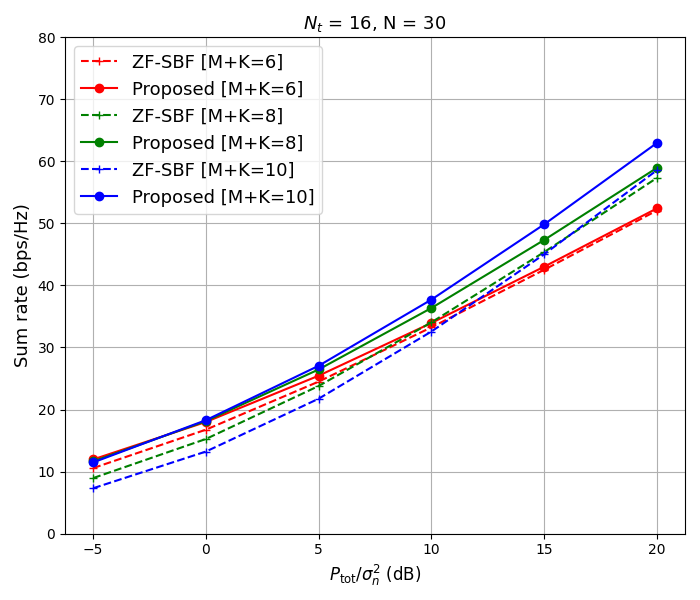
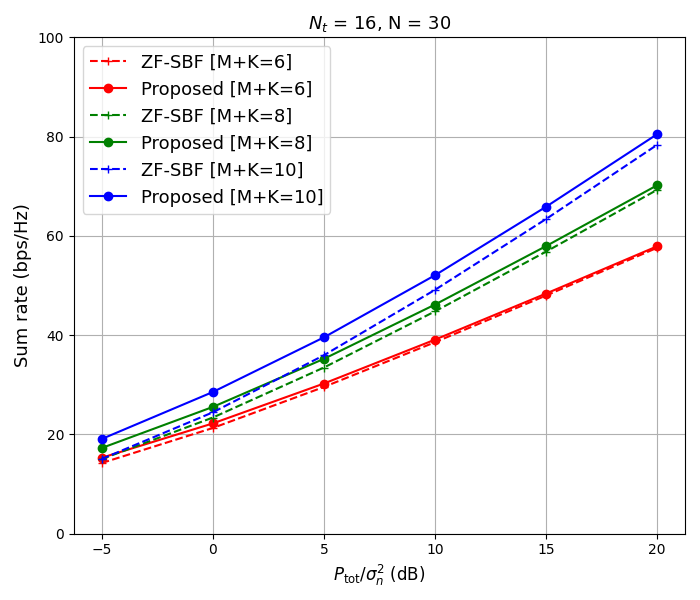
Modified

diff --git a/plot3.py b/plot3.py
@@ -1,0 +1,73 @@
+"""
+Compare the sum rate between the neural network and the Zero-forcing
+Author    : Khin Thandar Kyaw
+Date : 21 OCT 2023
+Last Modified  : 15 Nov 2023
+"""
+
+import numpy as np
+import tensorflow as tf
+import matplotlib.pyplot as plt
+from NNUtils import *
+
+
+# tf_version: 2.15.0
+print(tf.__version__)
+print("Loading...")
+
+# --------------------------- Start --------------------------------
+snrFixed = fiexdSNR()
+Nt, N, _, _, _, _, _ = parameters(6) # 6 is just a placeholder
+
+global_ymin = 0
+global_ymax = 100
+
+
+rateNNSuper30 = np.load(f'Plotting/10users/sumRateSuperNt16N30T10.npy')
+rateZF30 = np.load(f'Plotting/10users/sumRateZFNt16N30T10.npy')
+
+rateNNSuper60 = np.load(f'Plotting/10users/sumRateSuperNt16N60T10.npy')
+rateZF60 = np.load(f'Plotting/10users/sumRateZFNt16N60T10.npy')
+
+rateNNSuper120 = np.load(f'Plotting/10users/sumRateSuperNt16N120T10.npy')
+rateZF120 = np.load(f'Plotting/10users/sumRateZFNt16N120T10.npy')
+
+
+print('Loading...')
+linePrint()
+
+plt.figure(figsize=(7, 6))  
+
+
+# Plot lines
+plottingLine(rateZF30, 'ZF-SBF [N = 30]', 'dashed', 'red', '+')
+plottingLine(rateNNSuper30, 'Proposed [N = 30]', 'solid', 'red', 'o')
+
+plottingLine(rateZF60, 'ZF-SBF [N = 60]', 'dashed', 'green', '+')
+plottingLine(rateNNSuper60, 'Proposed [N = 60]', 'solid', 'green', 'o')
+
+plottingLine(rateZF120, 'ZF-SBF [N = 120]', 'dashed', 'blue', '+')
+plottingLine(rateNNSuper120, 'Proposed [N = 120]', 'solid', 'blue', 'o')
+
+# Legend
+plt.legend(loc='upper left', ncol=1, fontsize=13)
+plt.ylim([global_ymin, global_ymax])
+
+# Axes labels
+plt.rc('text', usetex=True)
+plt.xlabel(r'$P_{\mathrm{tot}}/\sigma_n^2$ (dB)', fontsize=12)
+plt.ylabel('Sum rate (bps/Hz)', fontsize=13)
+
+# Title
+totalUser = 10
+plt.title(r'$N_t$ = {}, $M + K$ = {}'.format(Nt, totalUser), fontsize=13)
+
+plt.grid(True) 
+plt.tight_layout()  # Adjust layout to prevent clipping of legend
+plt.savefig(f'Plotting/sumRateComparison.png')  
+plt.close()
+
+print("Done!")
+
+
+  

diff --git a/plot2.py b/plot2.py
@@ -1,0 +1,72 @@
+"""
+Compare the sum rate between the neural network and the Zero-forcing
+Author    : Khin Thandar Kyaw
+Date : 21 OCT 2023
+Last Modified  : 15 Nov 2023
+"""
+
+import numpy as np
+import tensorflow as tf
+import matplotlib.pyplot as plt
+from NNUtils import *
+
+
+# tf_version: 2.15.0
+print(tf.__version__)
+print("Loading...")
+
+# --------------------------- Start --------------------------------
+snrFixed = fiexdSNR()
+Nt, N, _, _, _, _, _ = parameters(6) # 6 is just a placeholder
+
+global_ymin = 0
+global_ymax = 100
+
+
+# load the data
+rateNNSuper6 = np.load(f'Plotting/6users/sumRateSuper.npy')
+rateZF6 = np.load(f'Plotting/6users/sumRateZF.npy')
+
+rateNNSuper8 = np.load(f'Plotting/8users/sumRateSuper.npy')
+rateZF8 = np.load(f'Plotting/8users/sumRateZF.npy')
+
+rateNNSuper10 = np.load(f'Plotting/10users/sumRateSuper.npy')
+rateZF10 = np.load(f'Plotting/10users/sumRateZF.npy')
+
+print('Loading...')
+linePrint()
+
+plt.figure(figsize=(7, 6))  
+
+
+# Plot lines
+plottingLine(rateZF6, 'ZF-SBF [M+K=6]', 'dashed', 'red', '+')
+plottingLine(rateNNSuper6, 'Proposed [M+K=6]', 'solid', 'red', 'o')
+
+plottingLine(rateZF8, 'ZF-SBF [M+K=8]', 'dashed', 'green', '+')
+plottingLine(rateNNSuper8, 'Proposed [M+K=8]', 'solid', 'green', 'o')
+
+plottingLine(rateZF10, 'ZF-SBF [M+K=10]', 'dashed', 'blue', '+')
+plottingLine(rateNNSuper10, 'Proposed [M+K=10]', 'solid', 'blue', 'o')
+
+# Legend
+plt.legend(loc='upper left', ncol=1, fontsize=13)
+plt.ylim([global_ymin, global_ymax])
+
+# Axes labels
+plt.rc('text', usetex=True)
+plt.xlabel(r'$P_{\mathrm{tot}}/\sigma_n^2$ (dB)', fontsize=12)
+plt.ylabel('Sum rate (bps/Hz)', fontsize=13)
+
+# Title
+plt.title(r'$N_t$ = {}, N = {}'.format(Nt, N), fontsize=13)
+
+plt.grid(True) 
+plt.tight_layout()  # Adjust layout to prevent clipping of legend
+plt.savefig(f'Plotting/sumRateComparison.png')  
+plt.close()
+
+print("Done!")
+
+
+  

diff --git a/plot4.py b/plot4.py
@@ -17,16 +17,19 @@ print("Loading...")
 
 # --------------------------- Start --------------------------------
 snrFixed = fiexdSNR()
-Nt, N, _, _, _, _, _ = parameters(6) # 6 is just a placeholder
+
 
 global_ymin = 0
 global_ymax = 100
 
 
 # load the data
+rateNNSuper30 = np.load(f'Plotting/10users/sumRateSuperN30model.npy')
 
-rateNNSuper10 = np.load(f'Plotting/10users/sumRateSuper.npy')
-rateZF10 = np.load(f'Plotting/10users/sumRateZF.npy')
+rateNNSuper60 = np.load(f'Plotting/10users/sumRateSuperN60model.npy')
+rateZF60 = np.load(f'Plotting/10users/sumRateZFN60.npy')
+
+rateNNSuper120 = np.load(f'Plotting/10users/sumRateSuperN120model.npy')
 
 print('Loading...')
 linePrint()
@@ -35,9 +38,13 @@ plt.figure(figsize=(7, 6))
 
 
 # Plot lines
+plottingLine(rateZF60, 'ZF-SBF [N = 60]', 'dashed', 'green', '+')
+plottingLine(rateNNSuper120, 'Proposed [N = 120]', 'solid', 'blue', '|')
 
-plottingLine(rateZF10, 'ZF-SBF [M+K=10]', 'dashed', 'green', '+')
-plottingLine(rateNNSuper10, 'Proposed [M+K=10]', 'solid', 'green', 'o')
+plottingLine(rateNNSuper60, 'Proposed [N = 60]', 'solid', 'green', 'x')
+
+plottingLine(rateNNSuper30, 'Proposed [N = 30]', 'solid', 'red', '1')
+
 
 # Legend
 plt.legend(loc='upper left', ncol=1, fontsize=13)
@@ -49,11 +56,13 @@ plt.xlabel(r'$P_{\mathrm{tot}}/\sigma_n^2$ (dB)', fontsize=12)
 plt.ylabel('Sum rate (bps/Hz)', fontsize=13)
 
 # Title
-plt.title(r'$N_t$ = {}, N = {}'.format(Nt, N), fontsize=13)
+Nt = 16
+totalUsers = 10
+plt.title(r'$N_t$ = {}, $M + K$ = {}'.format(Nt, totalUsers), fontsize=13)
 
 plt.grid(True) 
 plt.tight_layout()  # Adjust layout to prevent clipping of legend
-plt.savefig(f'Plotting/sumRateComparison.png')  
+plt.savefig(f'Plotting/sumRateComparisonTrainedAtN60TestedwithDiffN.png')  
 plt.close()
 
 print("Done!")

diff --git a/NNUtils.py b/NNUtils.py
@@ -13,24 +13,25 @@ from textwrap import wrap
 
 def linePrint():
   print('=' * 50)
-  
-def LagrangeMultiplier():
-  lagrangeMultiplier =  1e-3
-  return lagrangeMultiplier
 
 def fiexdSNR():
   snr = [-5, 0, 5, 10, 15, 20] # dB
   return snr
 
 def totalUsersFunc():
-  totalUsers = [10] #[6, 8, 10]
+  #totalUsers = [6, 8, 10]  # figure 2
+  totalUsers = [10] # figure 3
   return totalUsers
 
 def parameters(totalUser):
   Nt = 16 # Nt = antenna_size
-  N = 60 # N = No. of patches on each IRS
-  start = totalUser - 3
-  M =  random.randint(start, totalUser - 1)
+  N = 30 # N = No. of patches on each IRS # figure 2, figure 3
+  #N = 60 # N = No. of patches on each IRS # figure 3
+  #N = 120 # N = No. of patches on each IRS # figure 3
+  #start = totalUser - 3
+  #M =  random.randint(start, totalUser - 1)
+  end = totalUser
+  M =  random.randint(0, end) # M = direct user_size
   K = totalUser - M # K = IRS-assisted user_size
   while True:
     Lm = np.random.randint(1, 2, size=M) # Lm = path between BS and user

diff --git a/readme.md b/readme.md
@@ -11,13 +11,8 @@ For more details, please view the paper [Insert URL]().
 ### Results
 Figures of the sum rates in the paper are found in the folder [sumRates](./sumRates/). Please look at folder [lossCurves](./lossCurves/Fig3/) to know the loss rates of `Fig. 3` in the paper. The hyperparameters follow all figures presented in the paper. 
 
-Please modify `N` in [NNUtils.py](./NNUtils.py) and [plot.py](./plot.py) to reproduce all figures in the paper.
+Please modify `N` in [NNUtils.py](./NNUtils.py) and respective `python` `plot` files to reproduce all figures in the paper.
 
-To reproduce `Fig. 5`, use the following set up in the function `parameters` of [NNUtils.py](./NNUtils.py).
-```python
-end = totalUser
-M =  random.randint(0, end)
-```
 
 ### Run
 **0.Requirements**
